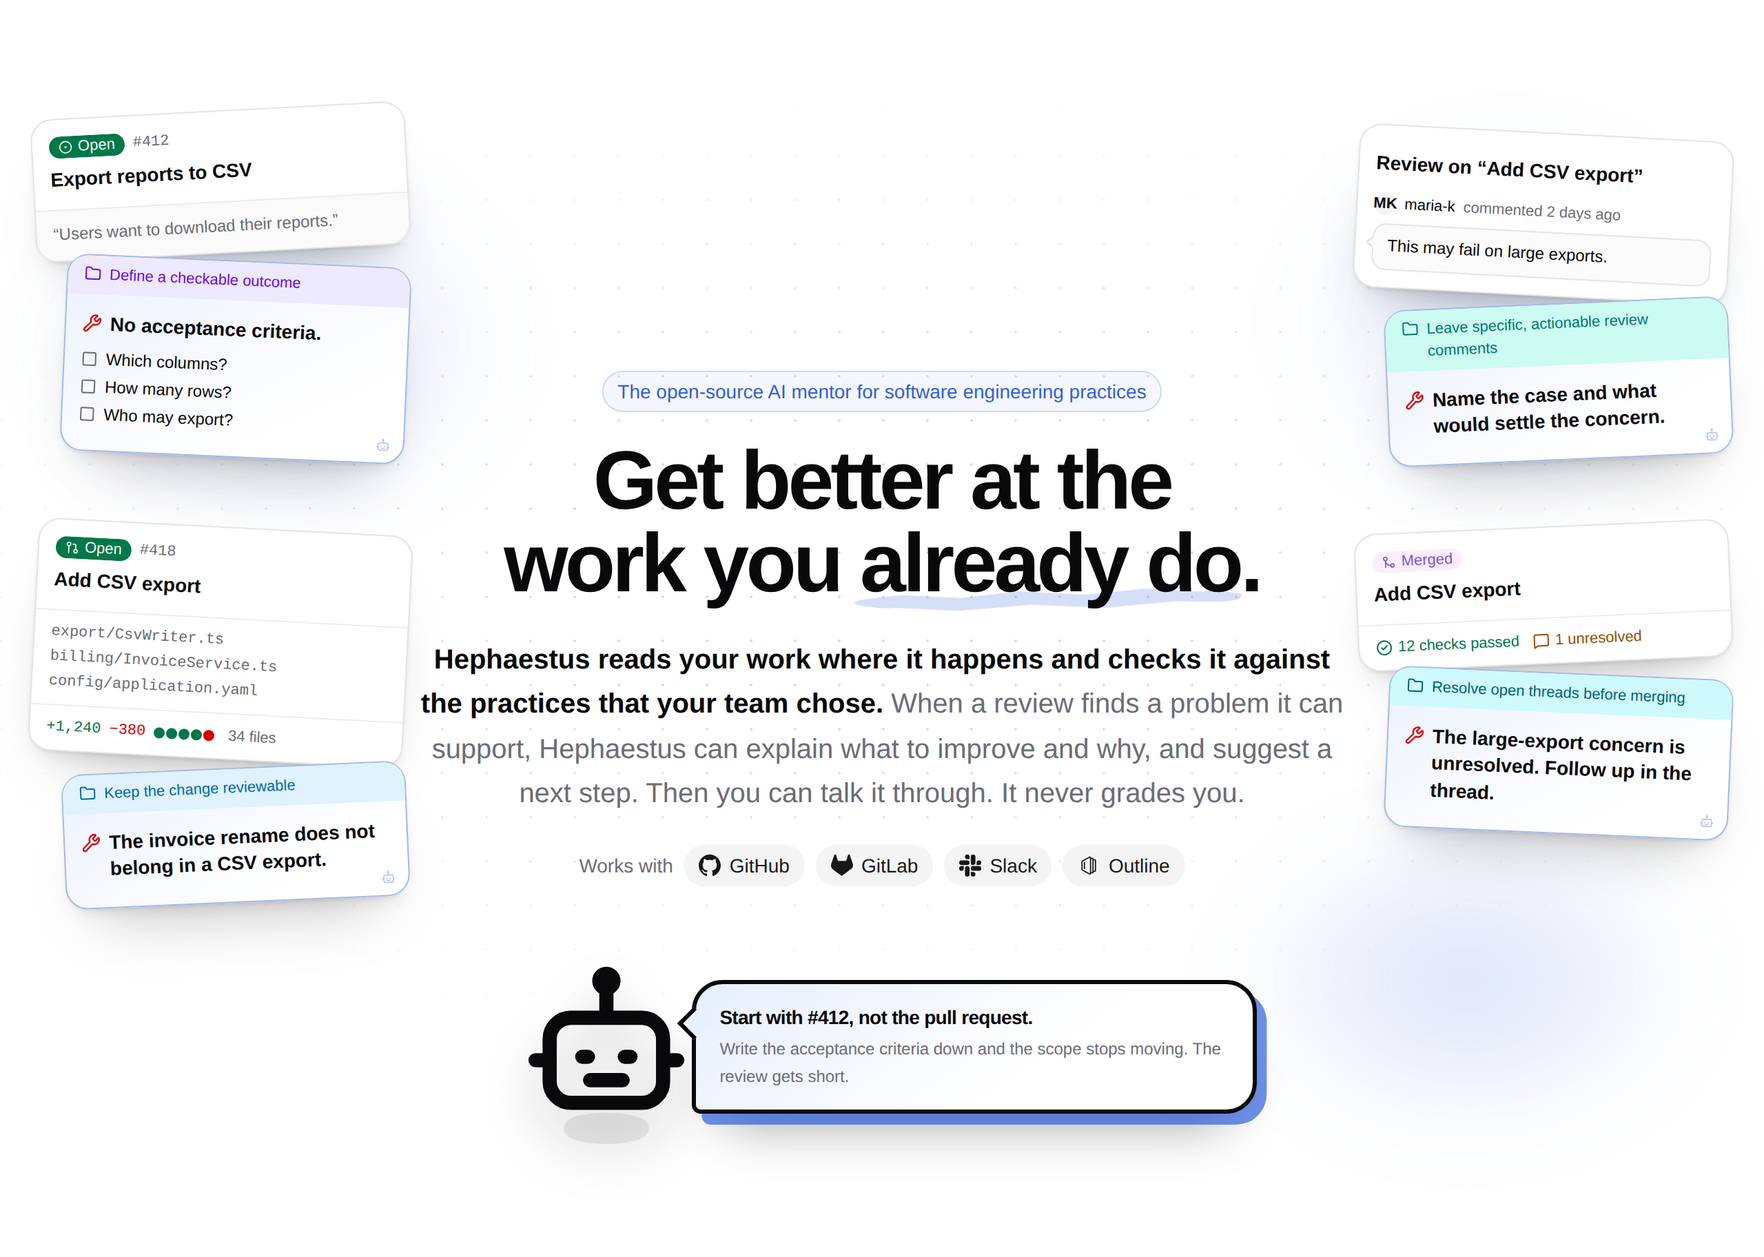
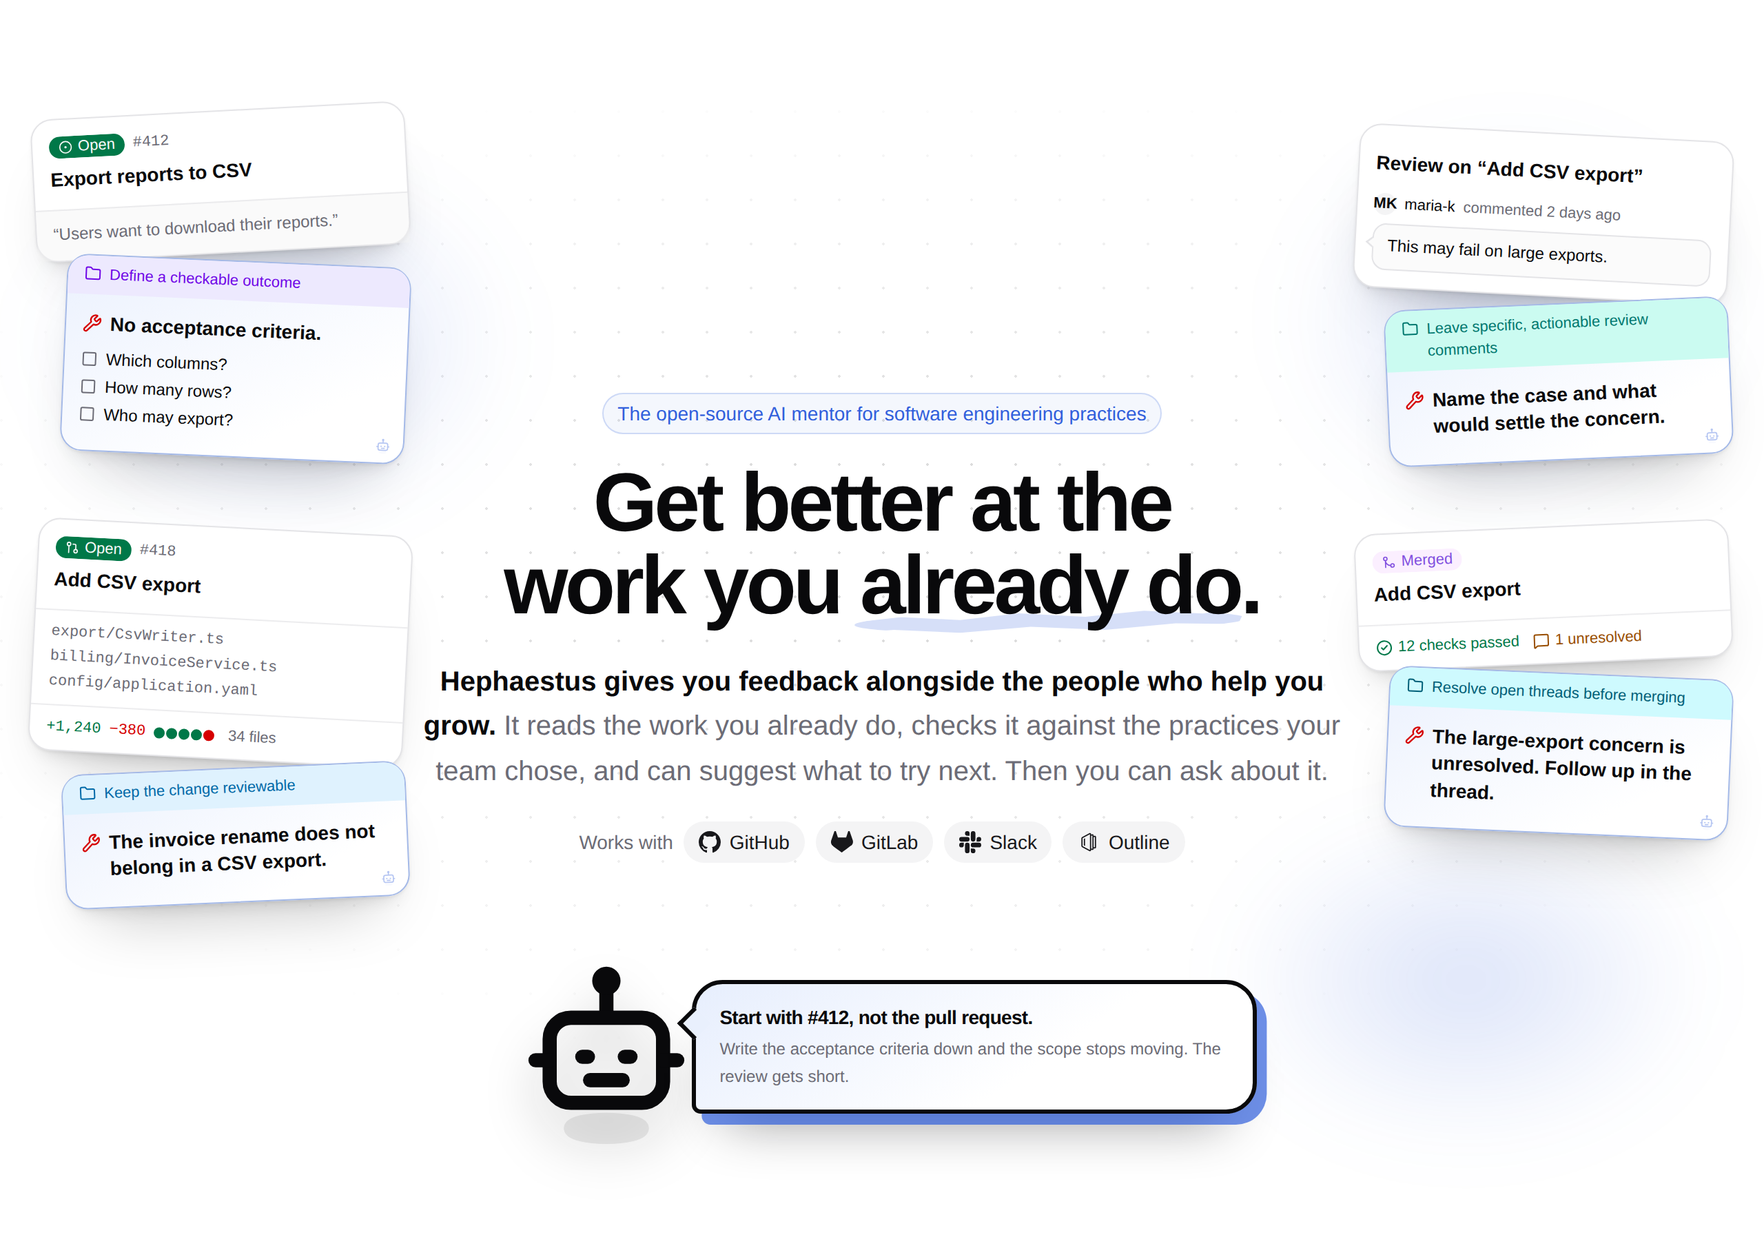
docs: every public surface describes Hephaestus as an AI mentor for growth (#5224)

Changed region(s): [[0.2188, 0.2812, 0.75, 0.7188]]

diff --git a/webapp/src/components/site/landing/LandingFaqSection.tsx b/webapp/src/components/site/landing/LandingFaqSection.tsx
@@ -9,7 +9,12 @@ const faqItems = [
 	{
 		key: "ai-mentor",
 		q: "What does an AI mentor do?",
-		a: "It gives one part of mentoring: feedback on how you apply engineering practices in your real work. Hephaestus checks your work against the practices your team chose. When a review finds a problem it can support, Hephaestus can point to the work, explain what to improve, and suggest a next step. An observation can say when the evidence could not settle a question. It is software, not a person. It adds to your reviewers and mentors, and it can be wrong.",
+		a: "It gives you feedback alongside the people who already mentor you, on the practices your team chose, such as writing clear issues or testing a change. If a review finds a problem it can support, Hephaestus can show you the evidence and suggest a next step. You can ask about the feedback in a conversation, and you decide what to do with it.",
+	},
+	{
+		key: "audiences",
+		q: "Who is Hephaestus for?",
+		a: "Developers who want feedback on their own work and someone to ask why. Team leads and mentors who choose the practices their team values. Educators who use a workspace for a course or a project team, where a workspace admin chooses the practices and can approve comments before they post. Admins who run it on their own Kubernetes with the Helm chart.",
 	},
 	{
 		key: "practice-feedback",
@@ -19,7 +24,7 @@ const faqItems = [
 	{
 		key: "code-review",
 		q: "How does Hephaestus work with code review?",
-		a: "Hephaestus comments on the practices behind the work, next to your reviewers’ comments. Developers decide what to do with feedback: fix the work, ask why, or disagree. Merge decisions stay with your reviewers.",
+		a: "Hephaestus comments on the practices behind the work, next to your reviewers’ comments. You decide what to do with each piece of feedback: fix the work, ask why, or disagree. Merge decisions stay with your reviewers.",
 	},
 	{
 		key: "feedback-location",
@@ -29,12 +34,12 @@ const faqItems = [
 	{
 		key: "who-sees-feedback",
 		q: "Who sees my feedback?",
-		a: "Your feedback has no score, grade or rank. Workspace admins see practice results, each linked to the work it is about, and that feedback on your Practice profile exists, not what it says. A workspace owner can let admins see who these records are about. Hephaestus records each change. Links to the work can still identify you when the setting is off. No workspace admin page shows your conversation with Hephaestus. An instance admin can include it in an audited export of your data. Feedback on the work is visible to everyone who can see that work, like any review comment.",
+		a: "Feedback describes your work and how to improve it, without scores, grades or ranks. Your Practice profile shows you the full feedback. Workspace admins see practice results, each linked to the work it is about, and whether feedback was delivered. Those links can identify you even when names are hidden. A workspace owner can let admins see who these records are about, and Hephaestus records each change. Your conversation with Hephaestus stays out of workspace admin pages. An instance admin can include it in an audited export of your data. Feedback on the work is visible to everyone who can see that work, like any review comment.",
 	},
 	{
 		key: "conversation",
 		q: "What can I ask Hephaestus?",
-		a: "Why a suggestion matters, or for an example. You can also add context Hephaestus missed, or disagree. Hephaestus draws on your recent project activity, the feedback you have received, and selected Outline documents. Hephaestus can use new messages in monitored Slack channels, and you can turn off use of your channel messages.",
+		a: "Why a suggestion matters, or for an example. You can also add context Hephaestus missed, or disagree. Hephaestus draws on your recent project activity, the feedback you have received, and selected Outline documents. Hephaestus can use new messages in monitored Slack channels, and you can turn off use of your channel messages. Hephaestus answers when your workspace has a model that fits your AI choice.",
 	},
 	{
 		key: "project-data",
@@ -43,8 +48,8 @@ const faqItems = [
 	},
 	{
 		key: "ai-limitations",
-		q: "Can the feedback be wrong?",
-		a: "Yes. It is written by an AI model, so it can miss context or suggest something unhelpful. Check the work it links to, ask Hephaestus a follow-up, or disagree and say why.",
+		q: "How can I check the feedback?",
+		a: "AI writes the feedback and can make mistakes. Each piece of feedback points to the evidence in your work, so check the work it links to, ask a follow-up, or disagree and say why.",
 	},
 	{
 		key: "cost",

diff --git a/webapp/src/components/site/product-features.ts b/webapp/src/components/site/product-features.ts
@@ -3,7 +3,7 @@ import {
 	ListChecks,
 	MessageSquareText,
 	MessagesSquare,
-	ShieldCheck,
+	Sprout,
 	type LucideIcon,
 	UserRound,
 } from "lucide-react";
@@ -18,32 +18,32 @@ export interface ProductFeature {
 export const PRODUCT_FEATURES: ProductFeature[] = [
 	{
 		icon: ListChecks,
-		name: "Practices Your Team Chose",
-		text: "Start from the catalog or write your own. Each practice states what good work looks like. For each practice, feedback can be off. Feedback on the work can wait for a workspace admin’s approval or go out automatically.",
+		name: "Your Team’s Practices",
+		text: "Start from the catalog or write your own. Each practice describes what good work looks like, such as writing clear issues or testing a change.",
 	},
 	{
 		icon: MessageSquareText,
-		name: "Feedback on the Work",
-		text: "A note on the pull request, merge request, or issue. By default, it posts only while the work is open. It points to the evidence, says why, and suggests a next step.",
-	},
-	{
-		icon: ShieldCheck,
-		name: "Feedback Grounded in Your Work",
-		text: "A review checks its evidence before feedback can go out. If it cannot capture the evidence it needs, it records no observation for that practice.",
+		name: "Feedback on Your Work",
+		text: "Feedback can appear on your pull request, merge request, or issue, on your Practice profile, or in a conversation. By default, comments on the work wait for a workspace admin’s approval and post while the work is open.",
 	},
 	{
 		icon: UserRound,
 		name: "Practice Profile",
-		text: "See patterns across your work, what is going well, and where you stand on each practice. No score, grade, or rank.",
+		text: "When your workspace reviews practices, your Practice profile shows recurring feedback and what is going well in your reviewed work.",
 	},
 	{
 		icon: MessagesSquare,
 		name: "Ask Hephaestus",
-		text: "Ask why, ask for an example, or disagree, in the web app or in a Slack direct message. You can turn on a weekly digest in your conversation in the app.",
+		text: "Ask why, ask for an example, or disagree, in the web app or, when your workspace uses Slack, in a direct message.",
+	},
+	{
+		icon: Sprout,
+		name: "Built for Growth",
+		text: "Feedback describes your work and how to improve it, without scores, grades or ranks. AI writes the feedback and can make mistakes, so check it against your work and decide what to do.",
 	},
 	{
 		icon: Layers,
-		name: "Your Stack",
-		text: "Works with GitHub, GitLab, Slack, and Outline. Connect OpenAI, Azure OpenAI, Anthropic, or another provider that supports the required API. Helm on your Kubernetes.",
+		name: "Connected Services",
+		text: "Connect GitHub or GitLab for repository work. Add Slack for conversations and team channels, or Outline for team documents. Each member chooses In-house, Cloud, or No AI for reviews about their work.",
 	},
 ];

diff --git a/webapp/src/components/site/about/AboutMissionSection.tsx b/webapp/src/components/site/about/AboutMissionSection.tsx
@@ -12,9 +12,8 @@ export function AboutMissionSection() {
 				</h2>
 
 				<p className="text-lg leading-relaxed">
-					Developers learn engineering practices by doing the work and getting feedback on it. That
-					feedback comes from reviewers and experienced colleagues, and their time is scarce. In 37
-					Apache projects, a{" "}
+					Developers learn engineering practices by doing the work and getting feedback on it, and
+					the people who give that feedback have little time. In 37 Apache projects, a{" "}
 					<a
 						href="https://doi.org/10.1145/3540250.3549167"
 						target="_blank"
@@ -24,10 +23,9 @@ export function AboutMissionSection() {
 						2022 study
 						<OutboundMark />
 					</a>{" "}
-					found that only about a quarter of pull requests received an implicit-mentoring comment.
-					Such a comment explains a suggestion, an instruction, or a way to fix an error. Hephaestus
-					gives feedback on every piece of work it can assess, so experienced people can spend their
-					time where judgment and relationships matter.
+					found that only about a quarter of pull requests received a comment that explained a
+					suggestion or a fix. Hephaestus adds feedback on everyday work alongside the guidance that
+					reviewers and mentors give.
 				</p>
 			</div>
 
@@ -36,22 +34,13 @@ export function AboutMissionSection() {
 				<ProductFeatureList features={PRODUCT_FEATURES} />
 			</div>
 
-			<div>
-				<h2 className="mb-4 text-2xl font-bold">Where Hephaestus is going</h2>
-				<p className="text-lg leading-relaxed">
-					Practices apply to everyone who contributes to a project, people and coding agents alike.
-					The same evidence-backed feedback can steer a coding agent, and it shows a team which
-					practices it actually applies, so the team can refine them.
-				</p>
-			</div>
-
 			<div className="rounded-2xl border border-border bg-muted/20 p-6 text-center">
 				<h2 className="text-xl font-semibold">Project origins</h2>
 				<p className="mx-auto mt-2 mb-6 max-w-2xl text-sm leading-relaxed text-muted-foreground">
 					Developed at the Technical University of Munich. There, Hephaestus is the research
-					platform for a study of how AI-generated feedback can improve developers’ application of
-					engineering practices. Applied Education Technologies maintains Hephaestus under the MIT
-					license.
+					platform for a study of whether and how AI-generated feedback improves developers’
+					application of engineering practices. Applied Education Technologies maintains Hephaestus
+					under the MIT license.
 				</p>
 				<InstitutionalAttribution />
 			</div>

diff --git a/webapp/index.html b/webapp/index.html
@@ -10,12 +10,12 @@
     <meta name="theme-color" content="#315FDC" />
     <meta
       name="description"
-      content="Hephaestus is the open-source AI mentor for software engineering practices. It reads your real work and can suggest what to improve and why. You can talk it through in a conversation."
+      content="Hephaestus is an AI mentor that helps software developers grow in the engineering practices their team values. It reads your real work and can suggest what to improve, with the evidence. You can ask about the feedback in a conversation."
     />
     <meta property="og:title" content="Hephaestus" />
     <meta
       property="og:description"
-      content="Hephaestus is the open-source AI mentor for software engineering practices. It reads your real work and can suggest what to improve and why. You can talk it through in a conversation."
+      content="Hephaestus is an AI mentor that helps software developers grow in the engineering practices their team values. It reads your real work and can suggest what to improve, with the evidence. You can ask about the feedback in a conversation."
     />
     <meta property="og:type" content="website" />
     <meta property="og:image" content="/hephaestus-social-card.png" />
@@ -27,7 +27,7 @@
     <meta name="twitter:title" content="Hephaestus" />
     <meta
       name="twitter:description"
-      content="Hephaestus is the open-source AI mentor for software engineering practices. It reads your real work and can suggest what to improve and why. You can talk it through in a conversation."
+      content="Hephaestus is an AI mentor that helps software developers grow in the engineering practices their team values. It reads your real work and can suggest what to improve, with the evidence. You can ask about the feedback in a conversation."
     />
     <meta name="twitter:image" content="/hephaestus-social-card.png" />
     <meta name="twitter:image:alt" content="Hephaestus: Get better at the work you already do." />

diff --git a/webapp/src/components/site/about/AboutHeroSection.tsx b/webapp/src/components/site/about/AboutHeroSection.tsx
@@ -9,15 +9,15 @@ export function AboutHeroSection() {
 				About <HephaestusWordmark />
 			</h1>
 			<p className="mx-auto max-w-2xl text-xl leading-relaxed text-pretty text-muted-foreground">
-				Hephaestus is the open-source AI mentor for software engineering practices. It reads your
-				pull requests, merge requests, issues and code reviews where they happen, and checks them
-				against the practices that your team chose. When a review finds a problem it can support,
-				Hephaestus can point to the work, explain what to improve, and suggest a next step. An
-				observation can say when the evidence could not settle a question.
+				Hephaestus is an AI mentor that helps software developers grow in the engineering practices
+				their team values.
 			</p>
 			<p className="mx-auto max-w-2xl text-lg leading-relaxed text-pretty text-muted-foreground">
-				In a conversation, you can ask Hephaestus why, ask for an example, or disagree. Your
-				feedback has no score, grade or rank. Hephaestus is software, and it can be wrong.
+				Developers grow by doing real work and getting feedback from people who know the craft:
+				senior developers, reviewers, teachers and team leads. Hephaestus gives you feedback
+				alongside them, on the practices your team chose. If a review finds a problem it can
+				support, Hephaestus can show you the evidence and suggest a next step. You can ask about the
+				feedback in a conversation, and you decide what to do with it.
 			</p>
 		</section>
 	);

diff --git a/webapp/src/components/site/landing/LandingFaqSection.test.tsx b/webapp/src/components/site/landing/LandingFaqSection.test.tsx
@@ -13,12 +13,14 @@ describe("LandingFaqSection", () => {
 		expect(answer.textContent).toContain("waits for a workspace admin’s approval by default");
 	});
 
-	it("says what workspace admins see and that feedback has no grade", async () => {
+	it("says what workspace admins see and that feedback carries no grade", async () => {
 		const user = userEvent.setup();
 		render(<LandingFaqSection />);
 		await user.click(screen.getByRole("button", { name: "Who sees my feedback?" }));
-		const answer = await screen.findByText(/Your feedback has no score, grade or rank/u);
-		expect(answer.textContent).toContain("No workspace admin page shows your conversation");
+		const answer = await screen.findByText(/without scores, grades or ranks/u);
+		expect(answer.textContent).toContain(
+			"Your conversation with Hephaestus stays out of workspace admin pages",
+		);
 		expect(answer.textContent).toContain("Feedback on the work is visible to everyone");
 		expect(answer.textContent).toContain("An instance admin can include it in an audited export");
 	});

diff --git a/webapp/src/components/site/landing/LandingHeroSection.tsx b/webapp/src/components/site/landing/LandingHeroSection.tsx
@@ -245,12 +245,11 @@ export function LandingHeroSection({ onSignIn }: LandingHeroSectionProps) {
 						className="relative z-10 mt-6 max-w-2xl text-lg leading-relaxed text-pretty sm:text-xl"
 					>
 						<span className="font-semibold text-foreground">
-							Hephaestus reads your work where it happens and checks it against the practices that
-							your team chose.
+							Hephaestus gives you feedback alongside the people who help you grow.
 						</span>{" "}
 						<span className="text-muted-foreground">
-							When a review finds a problem it can support, Hephaestus can explain what to improve
-							and why, and suggest a next step. Then you can talk it through. It never grades you.
+							It reads the work you already do, checks it against the practices your team chose, and
+							can suggest what to try next. Then you can ask about it.
 						</span>
 					</motion.p>
 

diff --git a/webapp/src/components/site/landing/LandingProjectOriginsSection.tsx b/webapp/src/components/site/landing/LandingProjectOriginsSection.tsx
@@ -13,9 +13,9 @@ export function LandingProjectOriginsSection() {
 					</h2>
 					<p className="mt-2 max-w-2xl text-sm leading-relaxed text-muted-foreground">
 						Developed at the Technical University of Munich. There, Hephaestus is the research
-						platform for a study of how AI-generated feedback can improve developers’ application of
-						engineering practices. Applied Education Technologies maintains Hephaestus under the MIT
-						license.
+						platform for a study of whether and how AI-generated feedback improves developers’
+						application of engineering practices. Applied Education Technologies maintains
+						Hephaestus under the MIT license.
 					</p>
 				</div>
 				<div className="justify-self-center md:justify-self-auto">

diff --git a/docs/src/lib/site.ts b/docs/src/lib/site.ts
@@ -4,7 +4,7 @@ export const PRODUCT_URL = "https://hephaestus.build";
 export const SITE_TITLE = "Hephaestus documentation";
 
 export const DESCRIPTION =
-	"Hephaestus is the open-source AI mentor for software engineering practices. It reads your real work and can suggest what to improve and why. You can talk it through in a conversation.";
+	"Hephaestus is an AI mentor that helps software developers grow in the engineering practices their team values. It reads your real work and can suggest what to improve, with the evidence. You can ask about the feedback in a conversation.";
 
 export const GUIDES = [
 	{

diff --git a/webapp/src/components/site/landing/LandingFeaturesSection.tsx b/webapp/src/components/site/landing/LandingFeaturesSection.tsx
@@ -68,8 +68,8 @@ export function LandingFeaturesSection() {
 						Feedback on the whole workflow
 					</h2>
 					<p className="mt-4 text-lg leading-relaxed text-pretty text-muted-foreground">
-						Hephaestus reads the code, the conversation around it, and the plan behind it. Authors
-						and reviewers both get feedback.
+						Hephaestus reads the code, the conversation around it, and the plan behind it. It can
+						give feedback on how you prepare a change and how you review a teammate’s work.
 					</p>
 
 					<h3 className="mt-8 text-sm font-semibold">

diff --git a/server/application/src/main/java/de/tum/cit/aet/hephaestus/integration/slack/onboarding/SlackAppHomeService.java b/server/application/src/main/java/de/tum/cit/aet/hephaestus/integration/slack/onboarding/SlackAppHomeService.java
@@ -220,7 +220,7 @@ public class SlackAppHomeService {
         if (state.refusal().isPresent()) {
             return state.refusal().get().userMessage();
         }
-        return "*Get better at the work you already do.* Hephaestus is an AI mentor for software engineering practices. In the Messages tab, ask about your feedback, PRs, reviews, issues, or team ways of working. Hephaestus replies in Slack direct messages, and you can also read the replies in the app.";
+        return "*Get better at the work you already do.* Hephaestus is an AI mentor that helps you grow in the engineering practices your team values. In the Messages tab, ask about your feedback, PRs, reviews, issues, or team ways of working. Hephaestus replies in Slack direct messages, and you can also read the replies in the app.";
     }
 
     private static String stateIcon(boolean ok) {

diff --git a/server/application/src/test/java/de/tum/cit/aet/hephaestus/integration/slack/webhook/SlackManifestTemplateTest.java b/server/application/src/test/java/de/tum/cit/aet/hephaestus/integration/slack/webhook/SlackManifestTemplateTest.java
@@ -58,8 +58,8 @@ class SlackManifestTemplateTest extends BaseUnitTest {
         String manifest = Files.readString(MANIFEST, StandardCharsets.UTF_8);
 
         assertThat(manifest)
-                .contains("  description: Hephaestus is an AI mentor for software engineering practices.")
-                .contains("    agent_description: Hephaestus is an AI mentor for software engineering practices.")
+                .contains("  description: Hephaestus is an AI mentor that helps you grow")
+                .contains("    agent_description: Hephaestus is an AI mentor for the engineering practices")
                 .doesNotContainIgnoringCase("assistant");
     }
 
